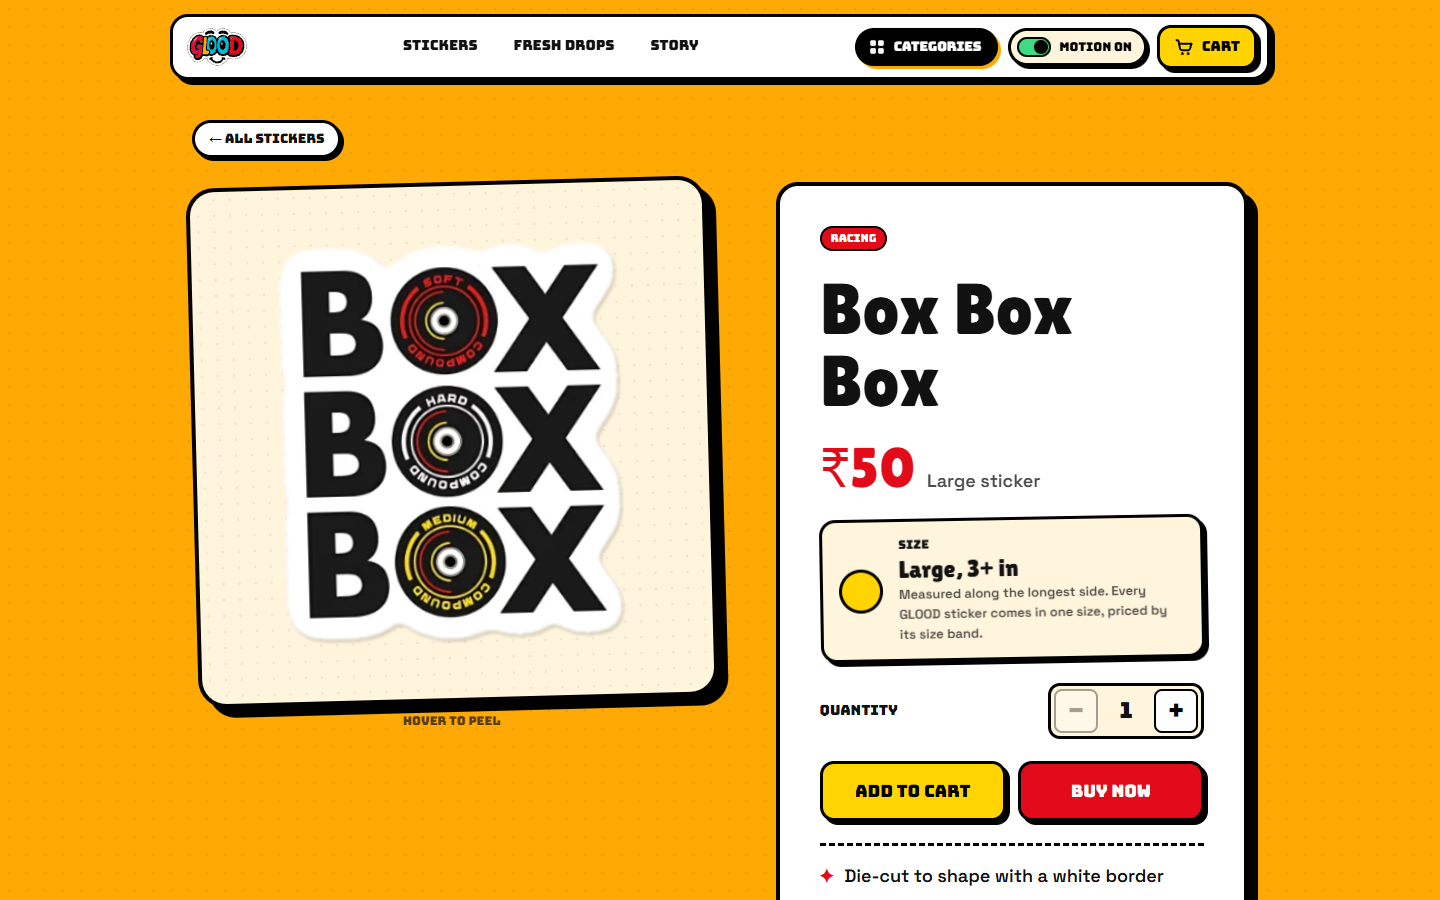
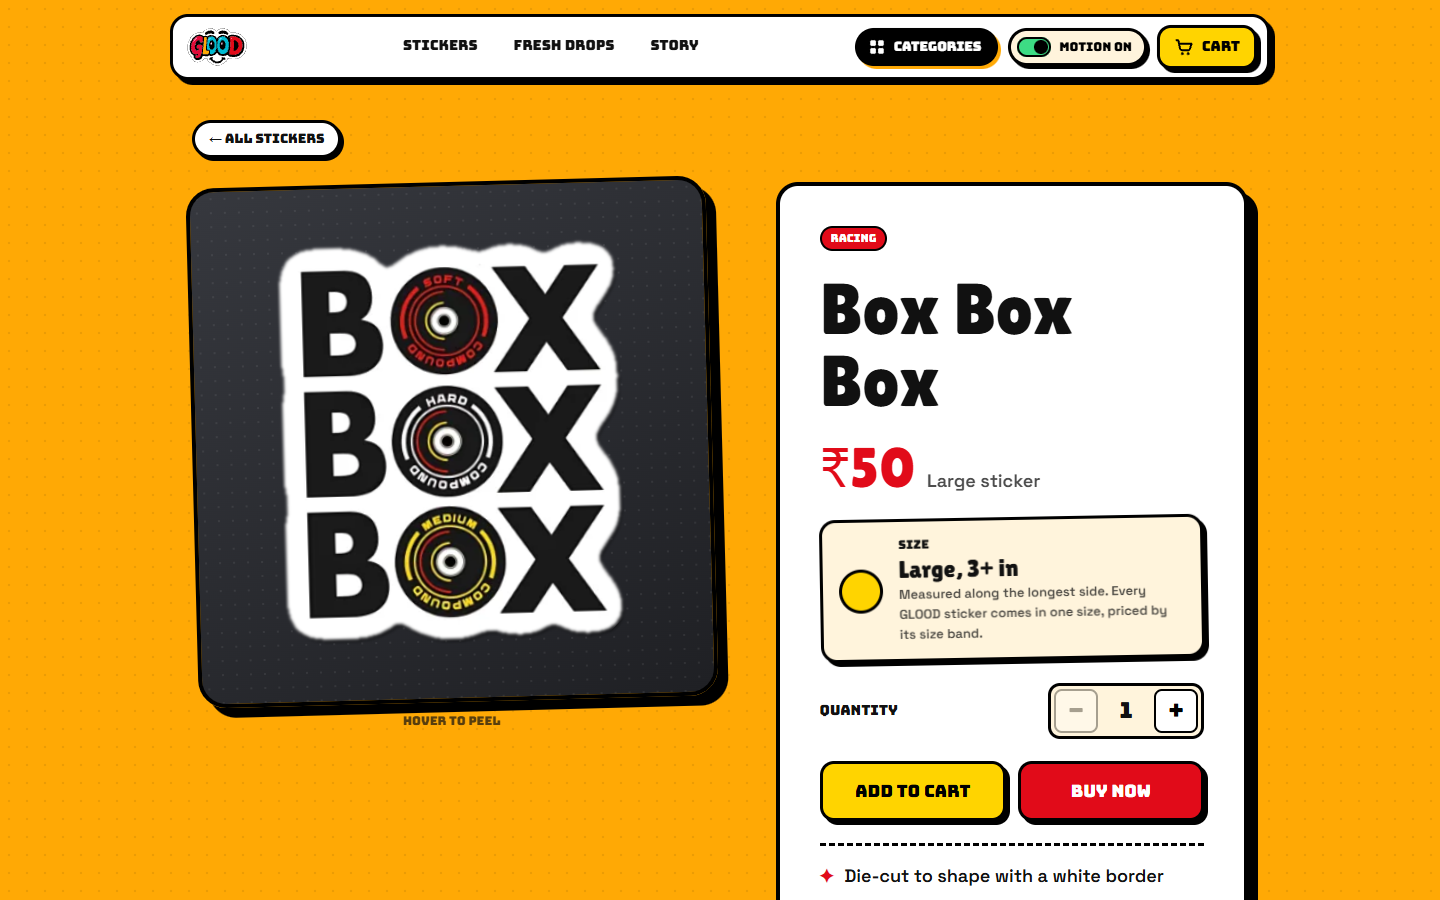
Dark backdrop behind stickers and a GLOOD cursor
- Stickers sit on a dark laptop-lid backdrop in the gallery, Fresh Drops,
  product page, cart and checkout, so their white die-cut borders stop
  merging into white and cream panels.
- New cursor follower: a yellow outlined ring that trails the mouse, labels
  cards View, the product sticker Peel and category tiles Open, and bursts
  sticker confetti on click. Mouse only, off when motion is off.

Changed region(s): [[0.125, 0.1867, 0.5, 0.8089]]

diff --git a/src/styles.css b/src/styles.css
@@ -17,6 +17,12 @@
   --cream: #fff4dc;
   --ink: #111111;
 
+  /* Dark "laptop lid" backdrop behind every sticker, so white die-cut borders stand out. */
+  --lid: #2a2c31;
+  --lid-bg:
+    radial-gradient(rgba(255, 255, 255, 0.07) 1.2px, transparent 1.5px) 0 0 / 14px 14px,
+    linear-gradient(150deg, #36383e, #1f2024);
+
   --line: 4px solid var(--black);
   --radius: 22px;
   --shadow: 7px 7px 0 var(--black);
@@ -685,7 +691,10 @@ a {
   aspect-ratio: 1;
   display: grid;
   place-items: center;
-  padding: 6px;
+  padding: 9%;
+  background: var(--lid-bg);
+  border: 3px solid var(--black);
+  border-radius: 16px;
 }
 
 .peel {
@@ -695,7 +704,7 @@ a {
   width: min(100%, calc(var(--arn) * 100%));
   aspect-ratio: var(--ar);
   container-type: size;
-  filter: drop-shadow(2px 3px 0 rgba(0, 0, 0, 0.16));
+  filter: drop-shadow(2px 3px 0 rgba(0, 0, 0, 0.45));
   transition:
     --peel 0.55s cubic-bezier(0.2, 0.9, 0.25, 1),
     transform 0.4s cubic-bezier(0.2, 1.4, 0.4, 1),
@@ -741,7 +750,7 @@ a {
   .drop-card:hover .peel {
     --peel: 0.22;
     transform: translateY(-8px) rotate(-3deg) scale(1.04);
-    filter: drop-shadow(10px 14px 0 rgba(0, 0, 0, 0.2));
+    filter: drop-shadow(10px 14px 0 rgba(0, 0, 0, 0.55));
   }
 }
 
@@ -1276,9 +1285,7 @@ a {
 
 .product-sheet {
   width: 100%;
-  background:
-    radial-gradient(rgba(0, 0, 0, 0.07) 1.3px, transparent 1.6px) 0 0 / 16px 16px,
-    var(--cream);
+  background: var(--lid-bg);
   border: var(--line);
   border-radius: 28px;
   box-shadow: 10px 10px 0 var(--black);
@@ -1288,13 +1295,15 @@ a {
 
 .product-sheet .sticker-art {
   padding: 0;
+  background: none;
+  border: 0;
 }
 
 @media (hover: hover) {
   .product-sheet:hover .peel {
     --peel: 0.22;
     transform: translateY(-8px) rotate(-3deg) scale(1.03);
-    filter: drop-shadow(12px 16px 0 rgba(0, 0, 0, 0.2));
+    filter: drop-shadow(12px 16px 0 rgba(0, 0, 0, 0.55));
   }
 }
 
@@ -1532,7 +1541,7 @@ a {
   height: 76px;
   display: grid;
   place-items: center;
-  background: var(--cream);
+  background: var(--lid-bg);
   border: 3px solid var(--black);
   border-radius: 14px;
   padding: 6px;
@@ -1715,7 +1724,7 @@ dialog.checkout::backdrop {
   width: 48px;
   height: 48px;
   object-fit: contain;
-  background: var(--cream);
+  background: var(--lid);
   border: 2px solid var(--black);
   border-radius: 10px;
   padding: 3px;
@@ -2269,6 +2278,108 @@ a.tag {
 
   .sticker-grid {
     scroll-margin-top: 160px;
+  }
+}
+
+/* ---------- cursor follower (src/js/cursor.js) ---------- */
+
+.cursor-ring {
+  position: fixed;
+  left: 0;
+  top: 0;
+  z-index: 9999;
+  width: 38px;
+  height: 38px;
+  margin: -19px 0 0 -19px;
+  pointer-events: none;
+  opacity: 0;
+  transition: opacity 0.2s ease;
+  will-change: transform;
+}
+
+.has-cursor .cursor-ring {
+  opacity: 1;
+}
+
+/* A modal sits in the top layer above everything, so the ring would show dimmed behind it. */
+.has-cursor:has(dialog[open]) .cursor-ring,
+.reduced-motion .cursor-ring {
+  opacity: 0;
+}
+
+.cursor-shape {
+  display: grid;
+  place-items: center;
+  width: 100%;
+  height: 100%;
+  border: 3px solid var(--black);
+  border-radius: 50%;
+  background: rgba(255, 212, 0, 0.35);
+  box-shadow: 3px 3px 0 var(--black);
+  transition: transform 0.3s cubic-bezier(0.2, 1.4, 0.4, 1), background 0.2s ease;
+}
+
+.is-hover .cursor-shape {
+  transform: scale(1.45);
+  background: rgba(255, 212, 0, 0.55);
+}
+
+.is-label .cursor-shape {
+  transform: scale(2.2) rotate(-8deg);
+  background: var(--yellow);
+}
+
+.is-down .cursor-shape {
+  transform: scale(0.75) rotate(10deg);
+}
+
+.is-label.is-down .cursor-shape {
+  transform: scale(1.9) rotate(4deg);
+}
+
+.cursor-label {
+  font-family: var(--font-label);
+  font-size: 7px;
+  line-height: 1;
+  text-transform: uppercase;
+  color: var(--black);
+  opacity: 0;
+  transition: opacity 0.15s ease;
+}
+
+.is-label .cursor-label {
+  opacity: 1;
+}
+
+.cursor-bit {
+  position: fixed;
+  z-index: 9998;
+  width: 10px;
+  height: 10px;
+  margin: -5px 0 0 -5px;
+  border: 2px solid var(--black);
+  border-radius: 3px;
+  pointer-events: none;
+  animation: cursor-bit 0.6s cubic-bezier(0.2, 0.8, 0.3, 1) forwards;
+}
+
+.cursor-bit.star {
+  width: 14px;
+  height: 14px;
+  margin: -7px 0 0 -7px;
+  border: 0;
+  border-radius: 0;
+  clip-path: polygon(50% 0%, 62% 35%, 100% 38%, 70% 60%, 80% 100%, 50% 76%, 20% 100%, 30% 60%, 0% 38%, 38% 35%);
+}
+
+@keyframes cursor-bit {
+  from {
+    transform: translate(0, 0) rotate(0deg) scale(1);
+    opacity: 1;
+  }
+  to {
+    transform: translate(var(--dx), var(--dy)) rotate(var(--spin)) scale(0.3);
+    opacity: 0;
   }
 }
 

diff --git a/src/js/cursor.js b/src/js/cursor.js
@@ -1,0 +1,93 @@
+// GLOOD cursor: a yellow, black-outlined ring that trails the mouse pointer. It grows over anything
+// clickable, says "View" over sticker cards, "Peel" over the product sticker and "Open" over category
+// tiles, and throws a small burst of sticker confetti on every click.
+//
+// Mouse only (touch screens have no pointer to follow). The normal cursor stays visible, so nothing
+// about precision or accessibility changes. Hidden while motion is switched off.
+
+const LABELS = [
+  ['.product-sheet', 'Peel'],
+  ['.sticker-card, .drop-card', 'View'],
+  ['.cat-link', 'Open'],
+];
+const CLICKABLE = 'a, button, label, input, textarea, select, summary, [role="button"]';
+const CONFETTI = ['#ffa905', '#e10b19', '#00bbd1', '#ffd400', '#ff8fc7', '#3ddc84', '#8a6bff'];
+const FOLLOW = 0.2; // how much of the gap the ring closes each frame
+
+const motionOff = () => document.documentElement.classList.contains('reduced-motion');
+
+export function mountCursor() {
+  if (!window.matchMedia('(hover: hover) and (pointer: fine)').matches) return;
+
+  const ring = document.createElement('div');
+  ring.className = 'cursor-ring';
+  ring.setAttribute('aria-hidden', 'true');
+  ring.innerHTML = '<span class="cursor-shape"><span class="cursor-label"></span></span>';
+  document.body.append(ring);
+  const label = ring.querySelector('.cursor-label');
+  const root = document.documentElement;
+
+  let x = 0;
+  let y = 0;
+  let rx = 0;
+  let ry = 0;
+  let raf = 0;
+
+  function frame() {
+    rx += (x - rx) * FOLLOW;
+    ry += (y - ry) * FOLLOW;
+    ring.style.transform = `translate3d(${rx}px, ${ry}px, 0)`;
+    // Stop the loop once the ring has caught up, so an idle page does no work.
+    raf = Math.abs(x - rx) + Math.abs(y - ry) > 0.3 ? requestAnimationFrame(frame) : 0;
+  }
+
+  window.addEventListener('pointermove', (e) => {
+    if (e.pointerType !== 'mouse') return;
+    x = e.clientX;
+    y = e.clientY;
+    if (!root.classList.contains('has-cursor')) {
+      root.classList.add('has-cursor');
+      rx = x;
+      ry = y;
+    }
+    if (!raf) raf = requestAnimationFrame(frame);
+  }, { passive: true });
+
+  document.addEventListener('mouseleave', () => root.classList.remove('has-cursor'));
+
+  document.addEventListener('pointerover', (e) => {
+    const target = e.target instanceof Element ? e.target : null;
+    if (!target) return;
+    const hit = LABELS.find(([selector]) => target.closest(selector));
+    ring.classList.toggle('is-label', Boolean(hit));
+    ring.classList.toggle('is-hover', !hit && Boolean(target.closest(CLICKABLE)));
+    label.textContent = hit ? hit[1] : '';
+  });
+
+  window.addEventListener('pointerdown', (e) => {
+    if (e.pointerType !== 'mouse' || motionOff()) return;
+    ring.classList.add('is-down');
+    burst(e.clientX, e.clientY);
+  });
+  window.addEventListener('pointerup', () => ring.classList.remove('is-down'));
+}
+
+function burst(x, y) {
+  const count = 8;
+  for (let i = 0; i < count; i++) {
+    const bit = document.createElement('span');
+    bit.className = `cursor-bit${i % 3 === 0 ? ' star' : ''}`;
+    bit.setAttribute('aria-hidden', 'true');
+    const angle = (Math.PI * 2 * i) / count + Math.random() * 0.5;
+    const dist = 28 + Math.random() * 26;
+    bit.style.left = `${x}px`;
+    bit.style.top = `${y}px`;
+    bit.style.setProperty('--dx', `${Math.cos(angle) * dist}px`);
+    bit.style.setProperty('--dy', `${Math.sin(angle) * dist}px`);
+    bit.style.setProperty('--spin', `${Math.round(Math.random() * 540 - 270)}deg`);
+    bit.style.background = CONFETTI[i % CONFETTI.length];
+    document.body.append(bit);
+    bit.addEventListener('animationend', () => bit.remove(), { once: true });
+    setTimeout(() => bit.remove(), 1000); // in case animations are off and animationend never fires
+  }
+}

diff --git a/src/base.js b/src/base.js
@@ -6,6 +6,8 @@ import '@fontsource/space-grotesk/600.css';
 import '@fontsource/space-grotesk/700.css';
 import './styles.css';
 import { applyMotionClass } from './js/chrome.js';
+import { mountCursor } from './js/cursor.js';
 
 document.documentElement.classList.add('js');
 applyMotionClass();
+mountCursor();

diff --git a/DECISIONS.md b/DECISIONS.md
@@ -184,3 +184,15 @@ Newest thinking is at the bottom of each section.
   - category links are shareable (`index.html?cat=racing#gallery`), and a product page's category tag and a
     "See all ..." button lead to its category. On the home page the menu filters in place instead of reloading
     the 3D story.
+
+## Owner changes (round 5, 2026-09-24): sticker backdrop and cursor
+
+- **Stickers sit on a dark "laptop lid" backdrop** everywhere they appear (gallery cards, Fresh Drops, product
+  page, cart and checkout thumbnails). On the old white and cream panels, the stickers' white die-cut borders
+  merged into the background. The dark lid matches the 3D laptop and makes every border read. Shadows were
+  deepened so the hover lift still shows on dark.
+- **Cursor follower** (`src/js/cursor.js`): a yellow, black-outlined ring trails the pointer, grows over
+  anything clickable, says View / Peel / Open over cards, the product sticker and category tiles, and throws a
+  small burst of sticker confetti on click. The normal cursor stays visible (no loss of precision or
+  accessibility). Mouse only; hidden on touch screens, while a checkout dialog is open, and when motion is off.
+  The animation loop stops as soon as the ring catches up, so an idle page does no work.
